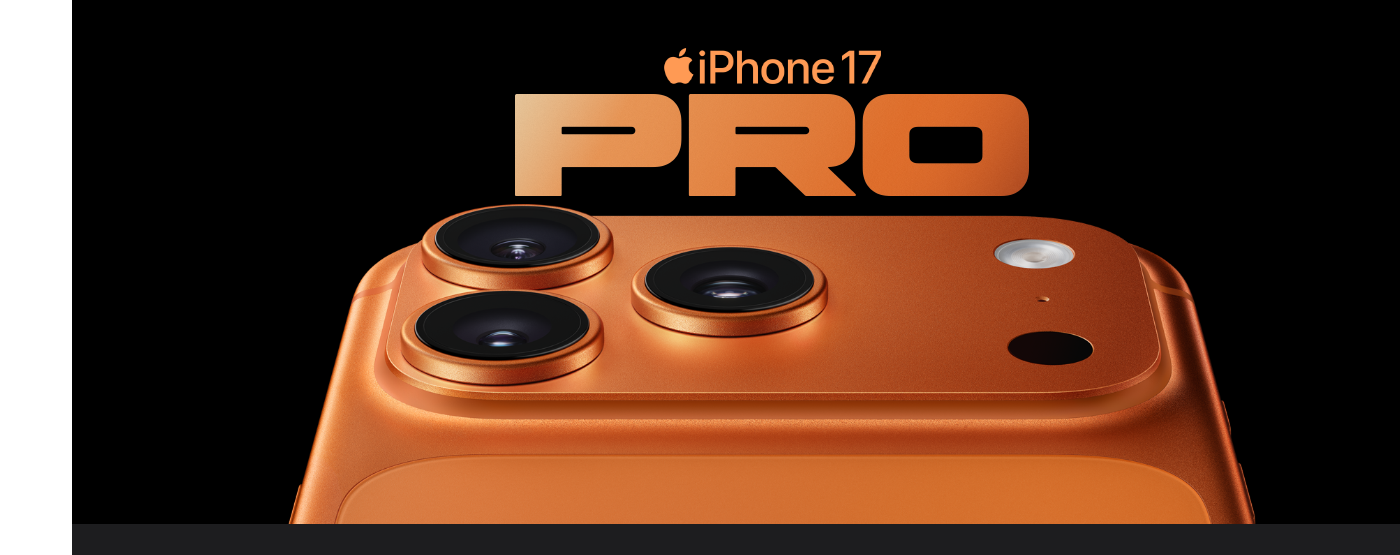
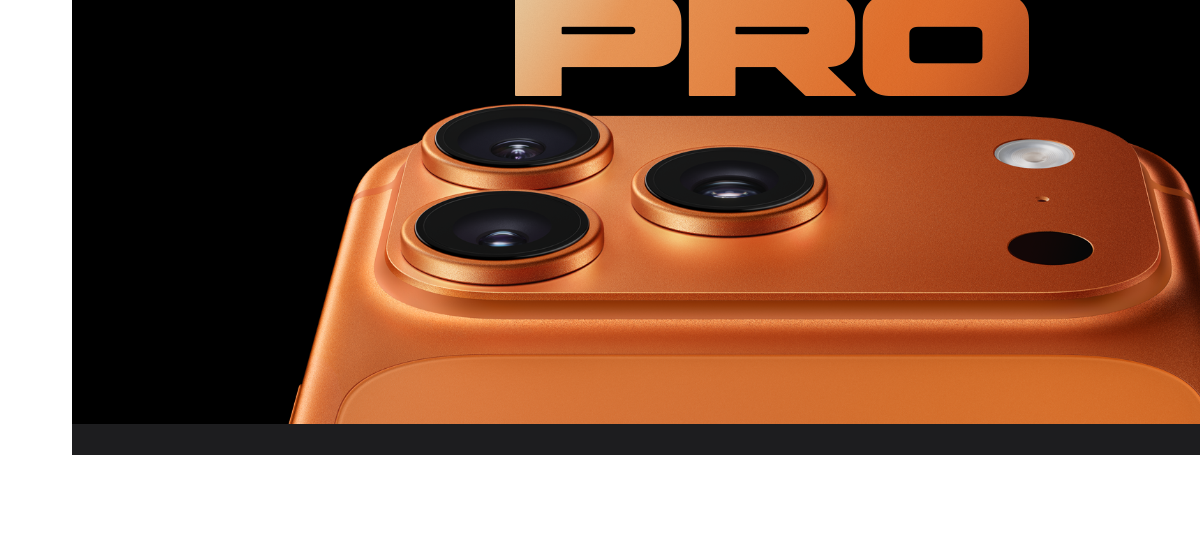
fix: centrar imagen hero y corregir desplazamiento horizontal de página
- Recorta 60 px de borde negro izquierdo en hero móvil (525→465 px ancho)
  y 200 px en desktop (1400→1200 px), centrando el iPhone en el encuadre.
- Añade overflow-x: hidden a html y body para eliminar el desplazamiento
  lateral causado por el carrusel BentoShowcase (-mx-5 extendido).

diff --git a/src/index.css b/src/index.css
@@ -65,6 +65,7 @@
 /* ---------- Base ---------- */
 html {
   scroll-behavior: smooth;
+  overflow-x: hidden;
 }
 body {
   font-family: var(--font-sans);
@@ -72,6 +73,7 @@ body {
   background: var(--color-surface);
   -webkit-font-smoothing: antialiased;
   text-rendering: optimizeLegibility;
+  overflow-x: hidden;
 }
 
 /* El amarillo de marca es siempre una superficie clara, también cuando el
